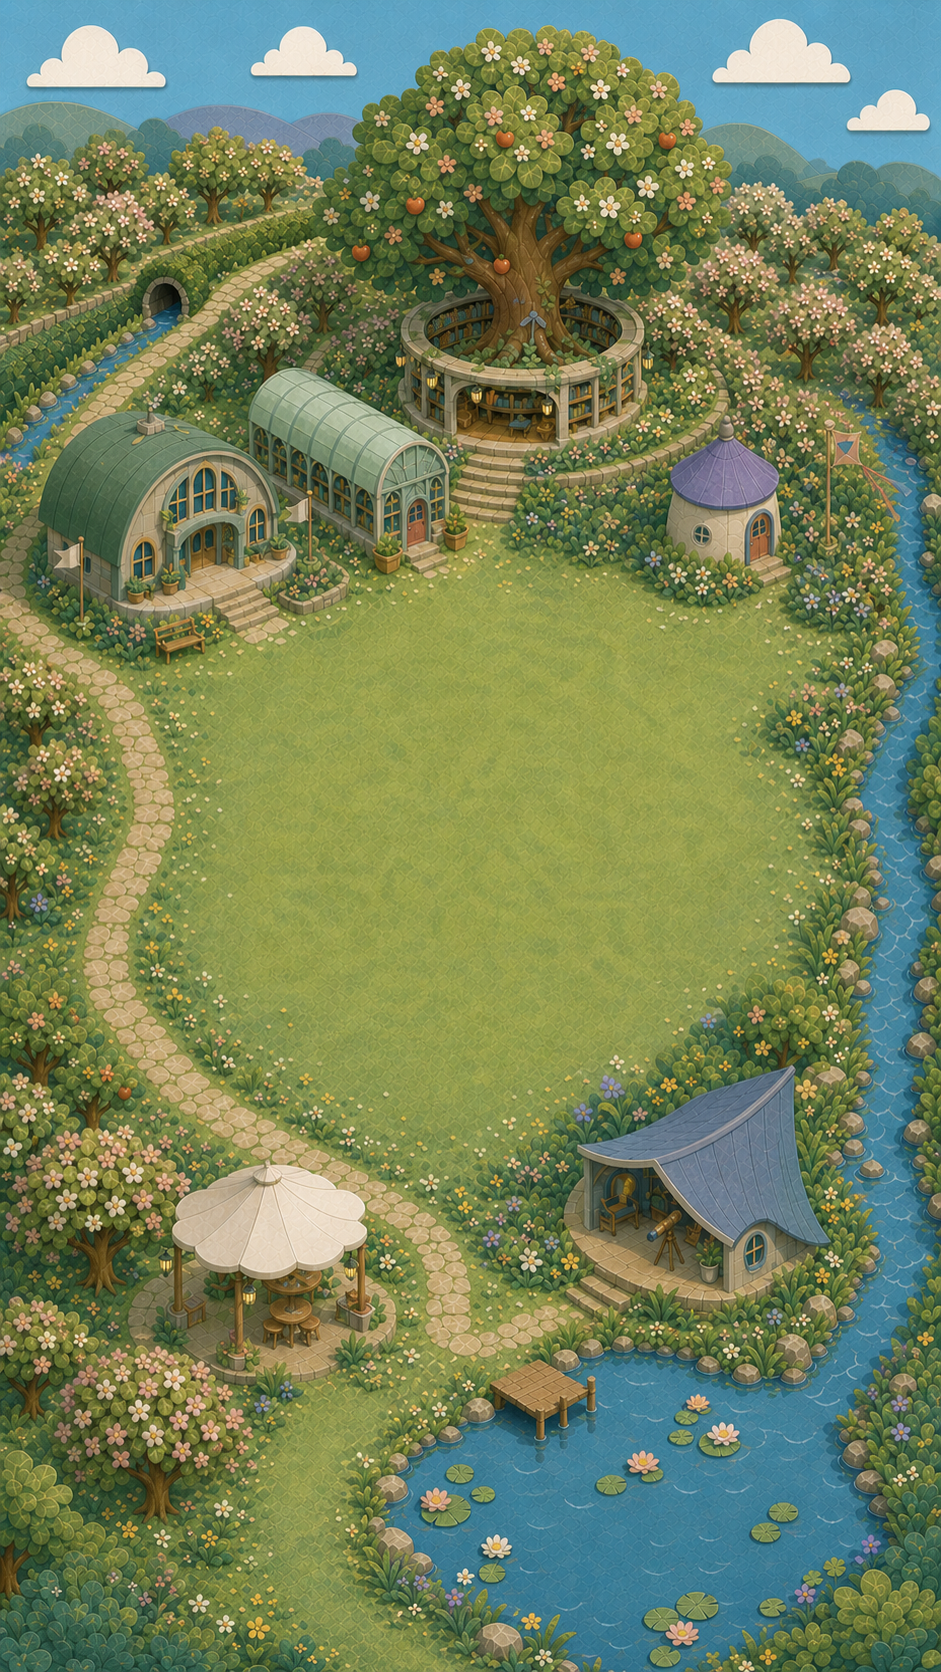
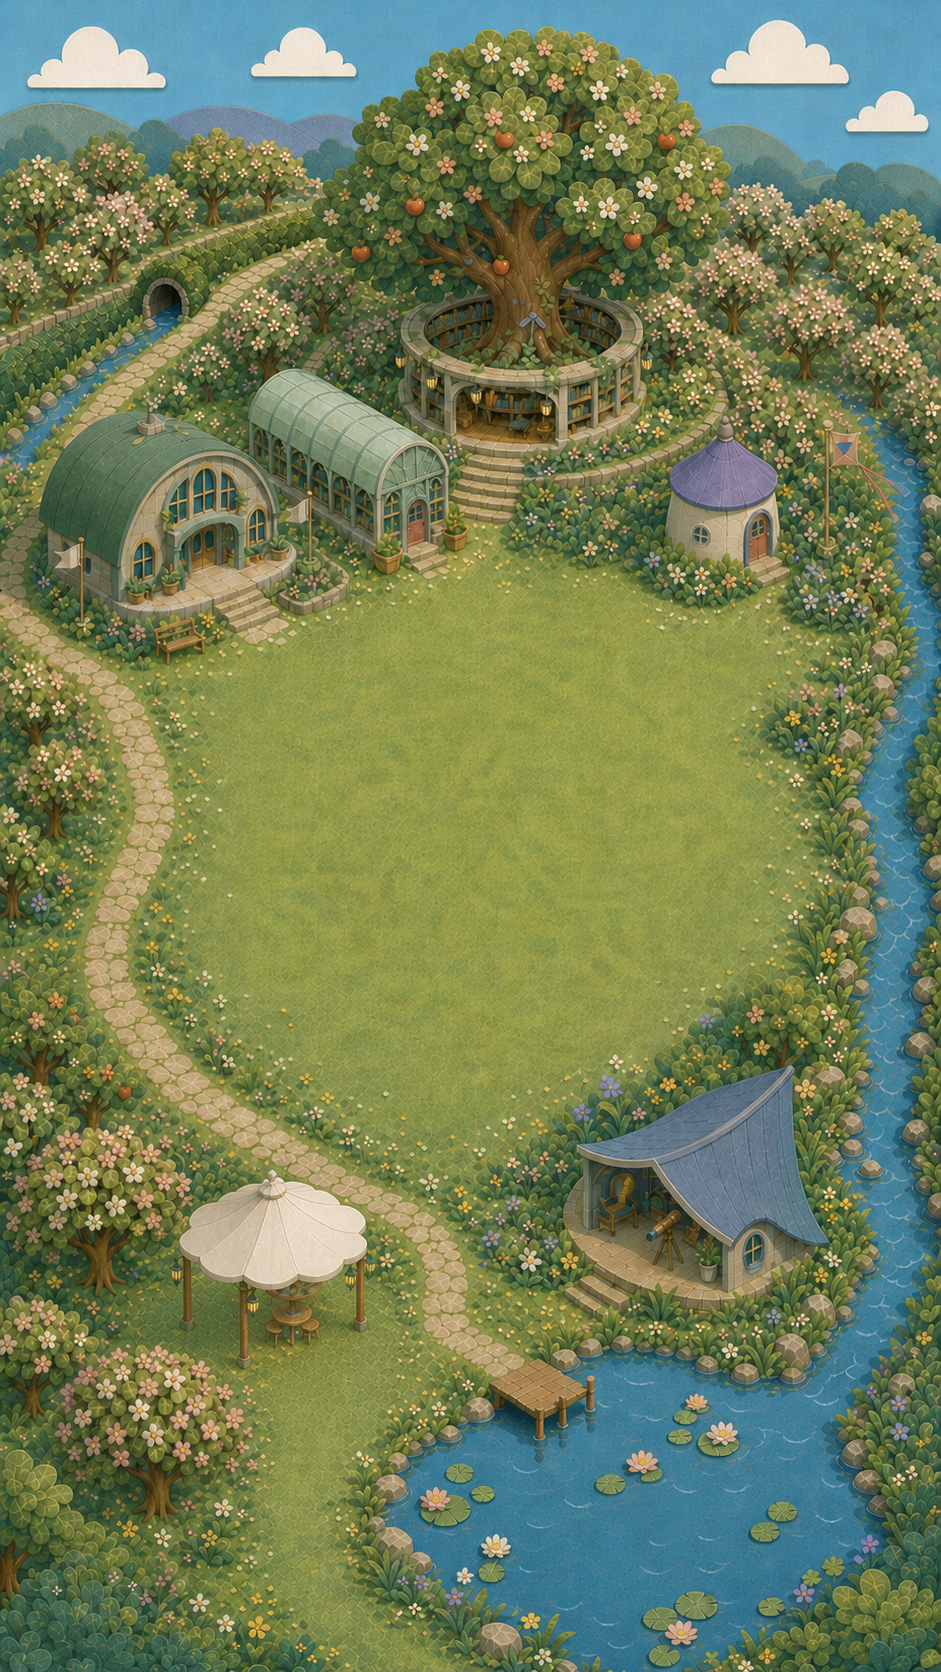
art: address final zone mock review

diff --git a/games/grove/assets/_new/ui_redesign_direction_b/zone_reference_pack_meadow_sky_v3/README.md b/games/grove/assets/_new/ui_redesign_direction_b/zone_reference_pack_meadow_sky_v3/README.md
@@ -10,10 +10,15 @@ approval checkpoints, not runtime layered map assets.
 | Appleblossom Commons | `appleblossom_commons_mock_v3.prompt.txt` | `appleblossom_commons_mock_v3.png` | Accepted |
 | Bellwater Vale | `bellwater_vale_mock_v3.prompt.txt` | `bellwater_vale_mock_v3.png` | Accepted |
 
-## Reference paths
+## Tracked reference paths
 
-- Palette and material reference: `games/grove/assets/_new/ui_redesign_direction_b/palette_studies_board_v1/palette_a_meadow_sky_board.png`
-- Camera, scale, shadow, and detail reference: `games/grove/assets/_new/ui_redesign_direction_b/screen_reference_pack_meadow_sky_v1/home_screen_meadow_sky_v2_working_farm.png`
+- Palette and material image: `games/grove/assets/_new/ui_redesign_direction_b/palette_studies_board_v1/palette_a_meadow_sky_board.png`
+- Palette and material prompt: `games/grove/assets/_new/ui_redesign_direction_b/palette_studies_board_v1/palette_a_meadow_sky.prompt.txt`
+- Camera, scale, shadow, and detail image: `games/grove/assets/_new/ui_redesign_direction_b/screen_reference_pack_meadow_sky_v1/home_screen_meadow_sky_v2_working_farm.png`
+- Camera, scale, shadow, and detail prompt: `games/grove/assets/_new/ui_redesign_direction_b/screen_reference_pack_meadow_sky_v1/home_screen_meadow_sky_v2_working_farm.prompt.txt`
+
+Supporting tracked documents:
+
 - Approved art design: `docs/superpowers/specs/2026-07-17-three-zone-cosmetic-world-art-design.md`
 - Generation and validation plan: `docs/superpowers/plans/2026-07-17-zone-reference-mocks-v3.md`
 
@@ -24,14 +29,24 @@ largest focal structure visible in the accepted mock.
 
 | Field | Appleblossom Commons | Bellwater Vale | Different? |
 | --- | --- | --- | --- |
-| Water topology | Narrow far-right boundary stream feeding one lower-right pond | One right-edge-cropped basin narrowing into a short broad diagonal spillway that exits lower-left | Yes |
-| Path topology | One open promenade from the upper-left seam around the left and lower lawn edges, terminating at the pond | One top-left entry path bending once through the Bell Arch and ending at Millhall | Yes |
+| Water topology | Narrow far-right boundary stream feeding one lower-right pond | One right-edge-cropped basin narrowing into one short broad diagonal spillway that exits only the lower-left side edge; the bottom edge is continuous meadow | Yes |
+| Path topology | One unbranched open promenade from the upper-left seam around the left and lower lawn edges, terminating at Rainwatch/pond; no pavilion spur or pad | One top-left entry path bending once through the Bell Arch and ending at Millhall | Yes |
 | Building distribution | Unequal 4+2 edge groups: four along the upper crescent, two beside the lower pond | Uneven spatial 3+3 outer clusters: three at the upper path/mill edge, three at the lower water junction | Yes |
 | Hero 3 x 3 cell | Top-center: Storytree Library | Bottom-center: Millbridge Meeting House | Yes; Manhattan distance 2 |
 | Negative-space 3 x 3 cell | Middle-center: broad social lawn | Middle-center: broad quiet meadow | No |
 
 Result: four of five signature fields differ. The two mandatory fields, path
 topology and building distribution, differ.
+
+## Hero evidence
+
+- Appleblossom: Storytree Library occupies the top-center grid cell. Its broad
+  apple canopy and ring-shaped reading shelter form the largest combined
+  silhouette and dominate the upper crescent without filling the central lawn.
+- Bellwater: Millbridge Meeting House occupies the bottom-center grid cell. Its
+  long low straight-edged shallow-chevron roof spans the spillway and is visibly
+  wider and larger than the upper-right Millhall, making it the dominant focal
+  structure while retaining the crossing function.
 
 ## Silhouette rosters
 
@@ -50,8 +65,8 @@ Bellwater has one open shelter, the coral diamond-canopy Lilybell Pavilion.
 Both files are non-interlaced, 8-bit RGB PNGs at exactly `941 x 1672`.
 
 ```text
-2ea2ab4a659e4c17f277f327d1c17da9ab6f9cbf573ee7aff8b0b1e3901968df  appleblossom_commons_mock_v3.png
-d663adf2a2501982a4a4d4e8f2b1821c9fd2bb38e096b20a1ea7fc2b90d57fa2  bellwater_vale_mock_v3.png
+730bc58e296170642d99ff6406b0b182cba49f11b297a2fc443cbf89216abde3  appleblossom_commons_mock_v3.png
+df292bae7511d2bf7ce529b04a981802e706cb825e861f35453398513b3c2b1a  bellwater_vale_mock_v3.png
 ```
 
 ## Anti-convergence verdict
@@ -64,4 +79,8 @@ low-arch Otter Landing. Each zone contains only one open shelter. The shared
 Meadow Sky palette, high three-quarter camera, shallow matte cut-cardstock
 material, warm edges, upper-left lighting, and restrained architectural detail
 remain consistent while topology, distribution, and silhouette grammar remain
-distinct.
+distinct. Appleblossom's only promenade is unbranched and the Tea Pavilion sits
+directly on meadow without a paved or turf base. Bellwater water is one
+continuous basin-to-spillway body, never touches the bottom frame, and exits
+only the lower-left side edge; its Meeting House is the dominant bottom-center
+long-chevron structure rather than a barrel-roof form.

diff --git a/docs/superpowers/plans/2026-07-17-zone-reference-mocks-v3.md b/docs/superpowers/plans/2026-07-17-zone-reference-mocks-v3.md
@@ -97,6 +97,8 @@ Require at least four of five signature fields to differ, including path topolog
 
 Change only the failed structural dimension while repeating all approved style invariants. Preserve the accepted zone unchanged. A second correction is allowed only when original-detail review proves that the first correction did not alter the failed structural dimension; never use it to explore a new composition.
 
+If the final whole-branch review identifies a new binding topology or silhouette defect that task-level review missed, it may authorize one final precise edit per affected zone. The final edit must address only the cited defect, preserve accepted invariants, and be re-reviewed against the complete pair.
+
 - [ ] **Step 4: Save validation metadata**
 
 Write `README.md` with the exact filenames, five-field signatures, silhouette rosters, reference paths, and accepted/rejected status. Run:
